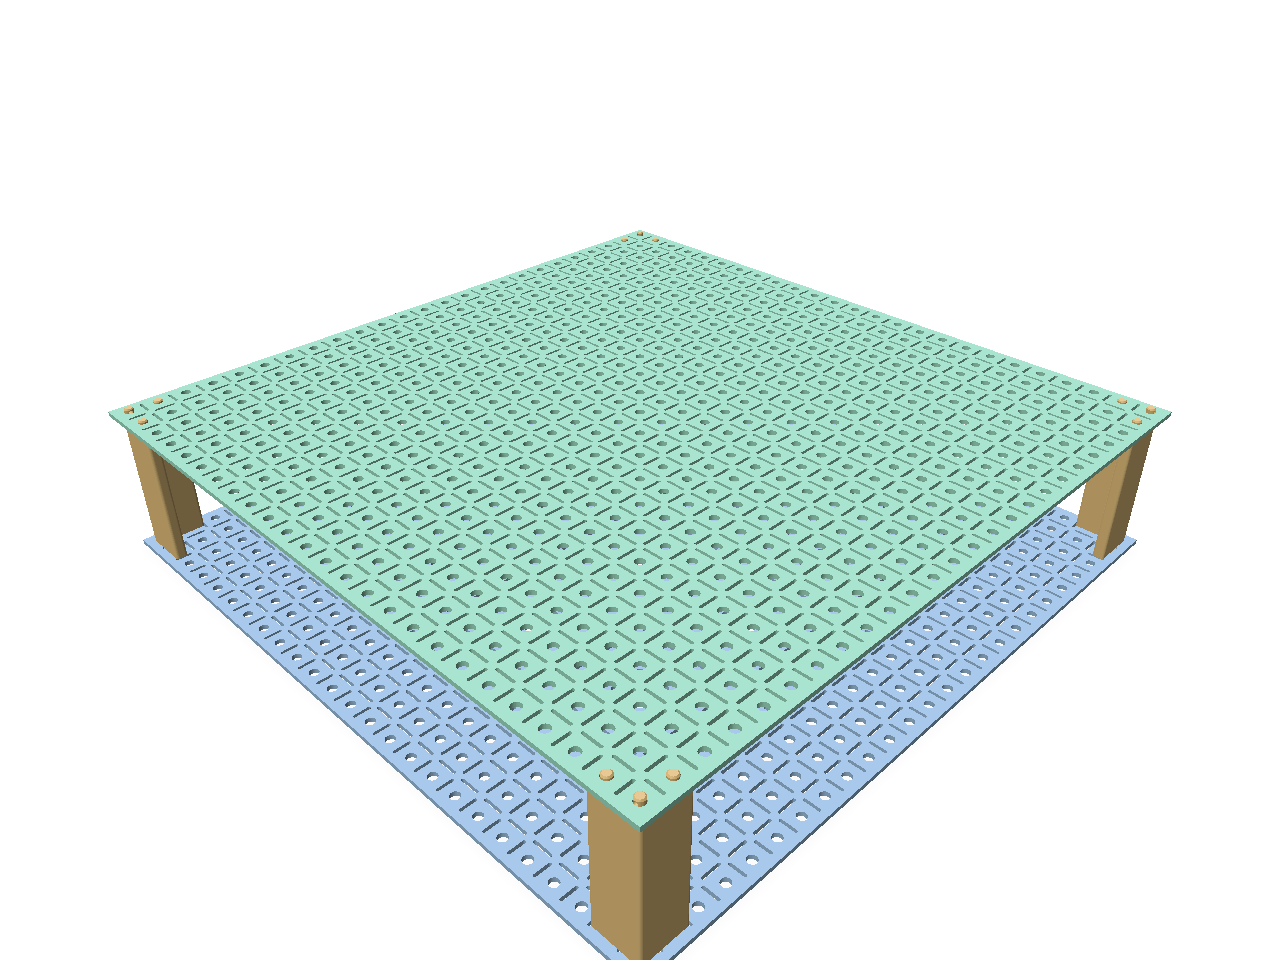
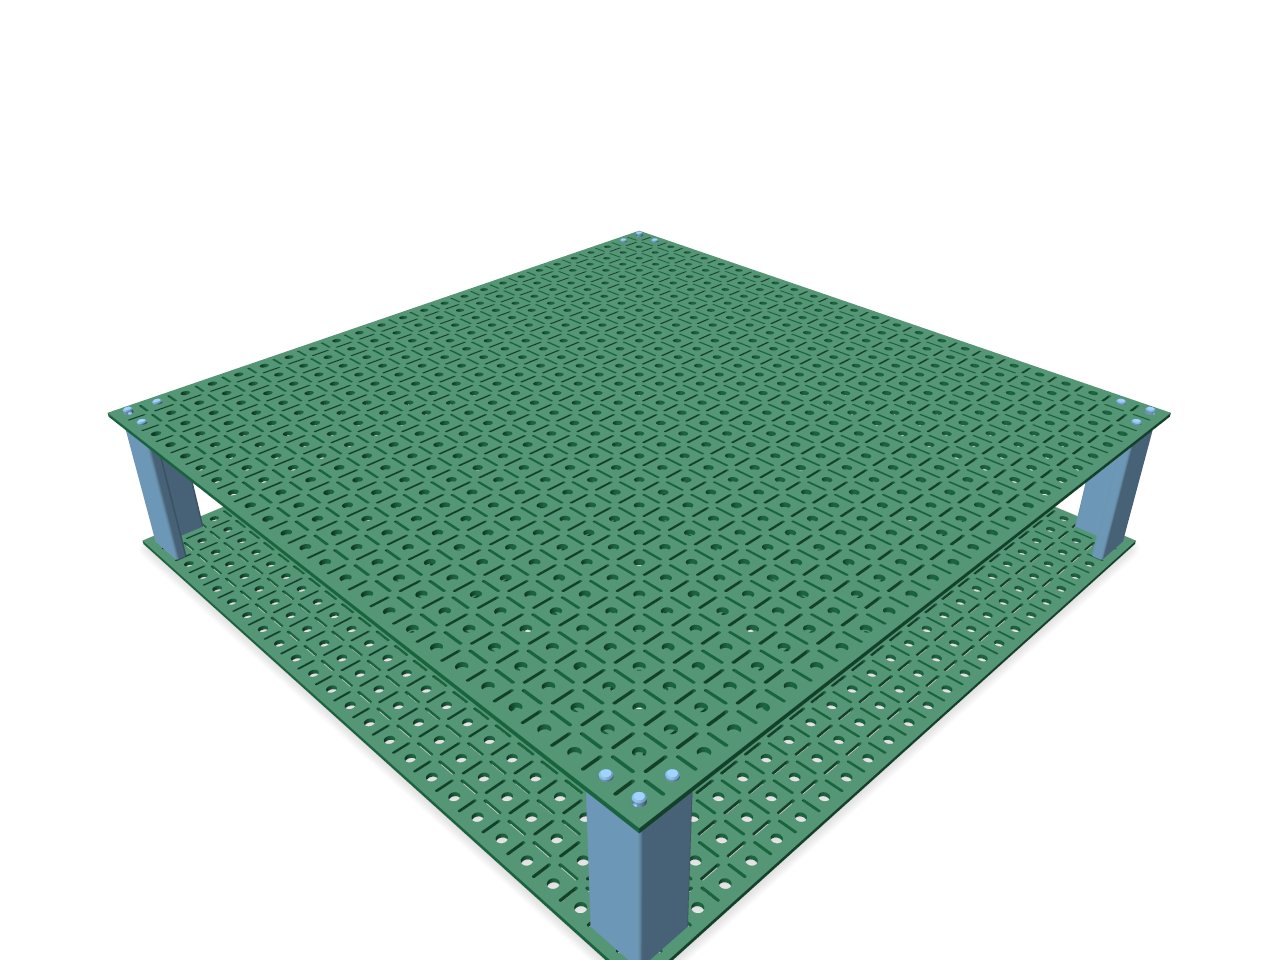
Split plate visibility into two checkboxes, tidy up the render
- Replace the single "Show plates" checkbox with independent Pillars /
  Bottom plate / Top plate checkboxes, so the lid can be taken off to see
  what the corner stubs are doing. Unchecked meshes are skipped in
  rebuild() rather than hidden, so this also speeds up pillar tuning.
- Plates are now solder-mask green and pillars light blue. Polyscope
  materials are matcaps that wash colors out, so the constants are
  pre-compensated and deliberately darker than the colors they render as.
- Use the "clay" material (matte, no blown-out specular on the big flat
  plate faces), a white background, softened ground shadows, and
  supersampling (2x interactive, 4x for screenshots), which is what
  actually cleans up the hole and slot edges.

Render setup moves into setup_render() so screenshots and the interactive
viewer cannot drift apart.

diff --git a/viewer.py b/viewer.py
@@ -49,7 +49,7 @@ params["snap_lines"] = True
 params["web"] = WEB
 params["edge_web"] = EDGE_WEB
 
-view = dict(show_plates=True, show_pillars=True)
+view = dict(show_plate_bottom=True, show_plate_top=True, show_pillars=True)
 
 FIXTURES = ("clip", "snap", "screw", "press")
 
@@ -62,11 +62,34 @@ scene_hi = np.ones(3)
 # cached board build, keyed on the params that actually affect it
 board_cache = {"key": None, "board": None, "geo": None}
 
+# Polyscope's materials are matcaps that add a lot of ambient light, so a
+# color set to the literal sRGB of FR4 comes out washed to mint. These are
+# pre-compensated: they render as solder-mask green and light blue, they do
+# not read as those colors on a swatch.
+FR4_GREEN = (0.00, 0.24, 0.08)     # solder mask green, both plates
+PILLAR_BLUE = (0.30, 0.62, 0.92)   # light blue, printed parts
+
 MESH_COLORS = {
-    "pillar": (0.80, 0.55, 0.20),
-    "plate_bottom": (0.35, 0.55, 0.75),
-    "plate_top": (0.35, 0.75, 0.55),
+    "pillar": PILLAR_BLUE,
+    "plate_bottom": FR4_GREEN,
+    "plate_top": FR4_GREEN,
 }
+
+# "clay" is the most even of the built-in materials: matte, no blown-out
+# specular on the large flat plate faces. Supersampling is what actually
+# cleans up the hole and slot edges, which is most of what you look at here.
+MATERIAL = "clay"
+SSAA_INTERACTIVE = 2
+SSAA_SCREENSHOT = 4
+
+
+def setup_render(ssaa=SSAA_INTERACTIVE):
+    ps.set_up_dir("z_up")
+    ps.set_ground_plane_mode("shadow_only")
+    ps.set_shadow_darkness(0.32)
+    ps.set_shadow_blur_iters(4)
+    ps.set_background_color((1.0, 1.0, 1.0))
+    ps.set_SSAA_factor(ssaa)
 
 
 def rot90(pt, k):
@@ -125,13 +148,15 @@ def rebuild():
     meshes = {}
     if view["show_pillars"]:
         meshes["pillar"] = mesh_arrays(build_pillars(p, geo))
-    if view["show_plates"]:
+    if view["show_plate_bottom"]:
         meshes["plate_bottom"] = mesh_arrays(board.translate((0, 0, -p["plate_t"])))
+    if view["show_plate_top"]:
         meshes["plate_top"] = mesh_arrays(board.translate((0, 0, p["height"])))
 
     new_names = []
     for name, (verts, tris) in meshes.items():
-        ps.register_surface_mesh(name, verts, tris, smooth_shade=False, color=MESH_COLORS.get(name))
+        ps.register_surface_mesh(name, verts, tris, smooth_shade=False,
+                                 color=MESH_COLORS.get(name), material=MATERIAL)
         new_names.append(name)
 
     for name in mesh_names:
@@ -264,10 +289,14 @@ def ui():
             pillars_dirty = True
 
     psim.Separator()
-    changed, view["show_pillars"] = psim.Checkbox("Show pillars", view["show_pillars"])
+    psim.TextUnformatted("Show")
+    changed, view["show_pillars"] = psim.Checkbox("Pillars", view["show_pillars"])
     pillars_dirty = pillars_dirty or changed
     psim.SameLine()
-    changed, view["show_plates"] = psim.Checkbox("Show plates", view["show_plates"])
+    changed, view["show_plate_bottom"] = psim.Checkbox("Bottom plate", view["show_plate_bottom"])
+    board_dirty = board_dirty or changed
+    psim.SameLine()
+    changed, view["show_plate_top"] = psim.Checkbox("Top plate", view["show_plate_top"])
     board_dirty = board_dirty or changed
 
     if psim.TreeNodeEx("Pillar parameters", psim.ImGuiTreeNodeFlags_DefaultOpen):
@@ -358,17 +387,17 @@ def screen_size():
 
 
 def main():
+    shot = "--screenshot" in sys.argv
     ps.set_program_name("Pillar + baseplate generator")
     width, height = screen_size()
     ps.set_window_size(width, height)
     ps.init()
-    ps.set_up_dir("z_up")
-    ps.set_ground_plane_mode("shadow_only")
+    setup_render(SSAA_SCREENSHOT if shot else SSAA_INTERACTIVE)
     rebuild()
     frame_scene()
     ps.set_user_callback(ui)
 
-    if "--screenshot" in sys.argv:
+    if shot:
         out = sys.argv[sys.argv.index("--screenshot") + 1]
         ps.screenshot(out)
         print("Wrote " + out)

diff --git a/README.md b/README.md
@@ -46,6 +46,13 @@ The full panel, which is also the largest board most cheap fab houses take at th
 
 ![250x250 clip assembly](images/assembly_250x250_clip_h50.png)
 
+### Top plate off
+
+Pillars and each plate have their own show/hide checkbox, so you can drop the top plate and look at
+what the corner stubs are actually doing. Here the clip fixture's cross-drilled holes are visible.
+
+![70x70 assembly with the top plate hidden](images/assembly_70x70_open.png)
+
 ### Snap lines off
 
 The break-off slots are a checkbox. Turn them off for a plain drilled grid plate: nothing to snap
@@ -127,6 +134,10 @@ uv run viewer.py
 
 That opens the live parameter viewer: drag sliders, watch the assembly rebuild. The board mesh is
 cached on the parameters that affect it, so pillar-only tweaks stay interactive even at 250 x 250 mm.
+
+The **Show** row has an independent checkbox for the pillars, the bottom plate and the top plate.
+Anything unchecked is not built at all, not just hidden, so hiding the plates also makes rebuilds
+faster while you tune pillar geometry.
 
 Two buttons in the viewer export:
 
